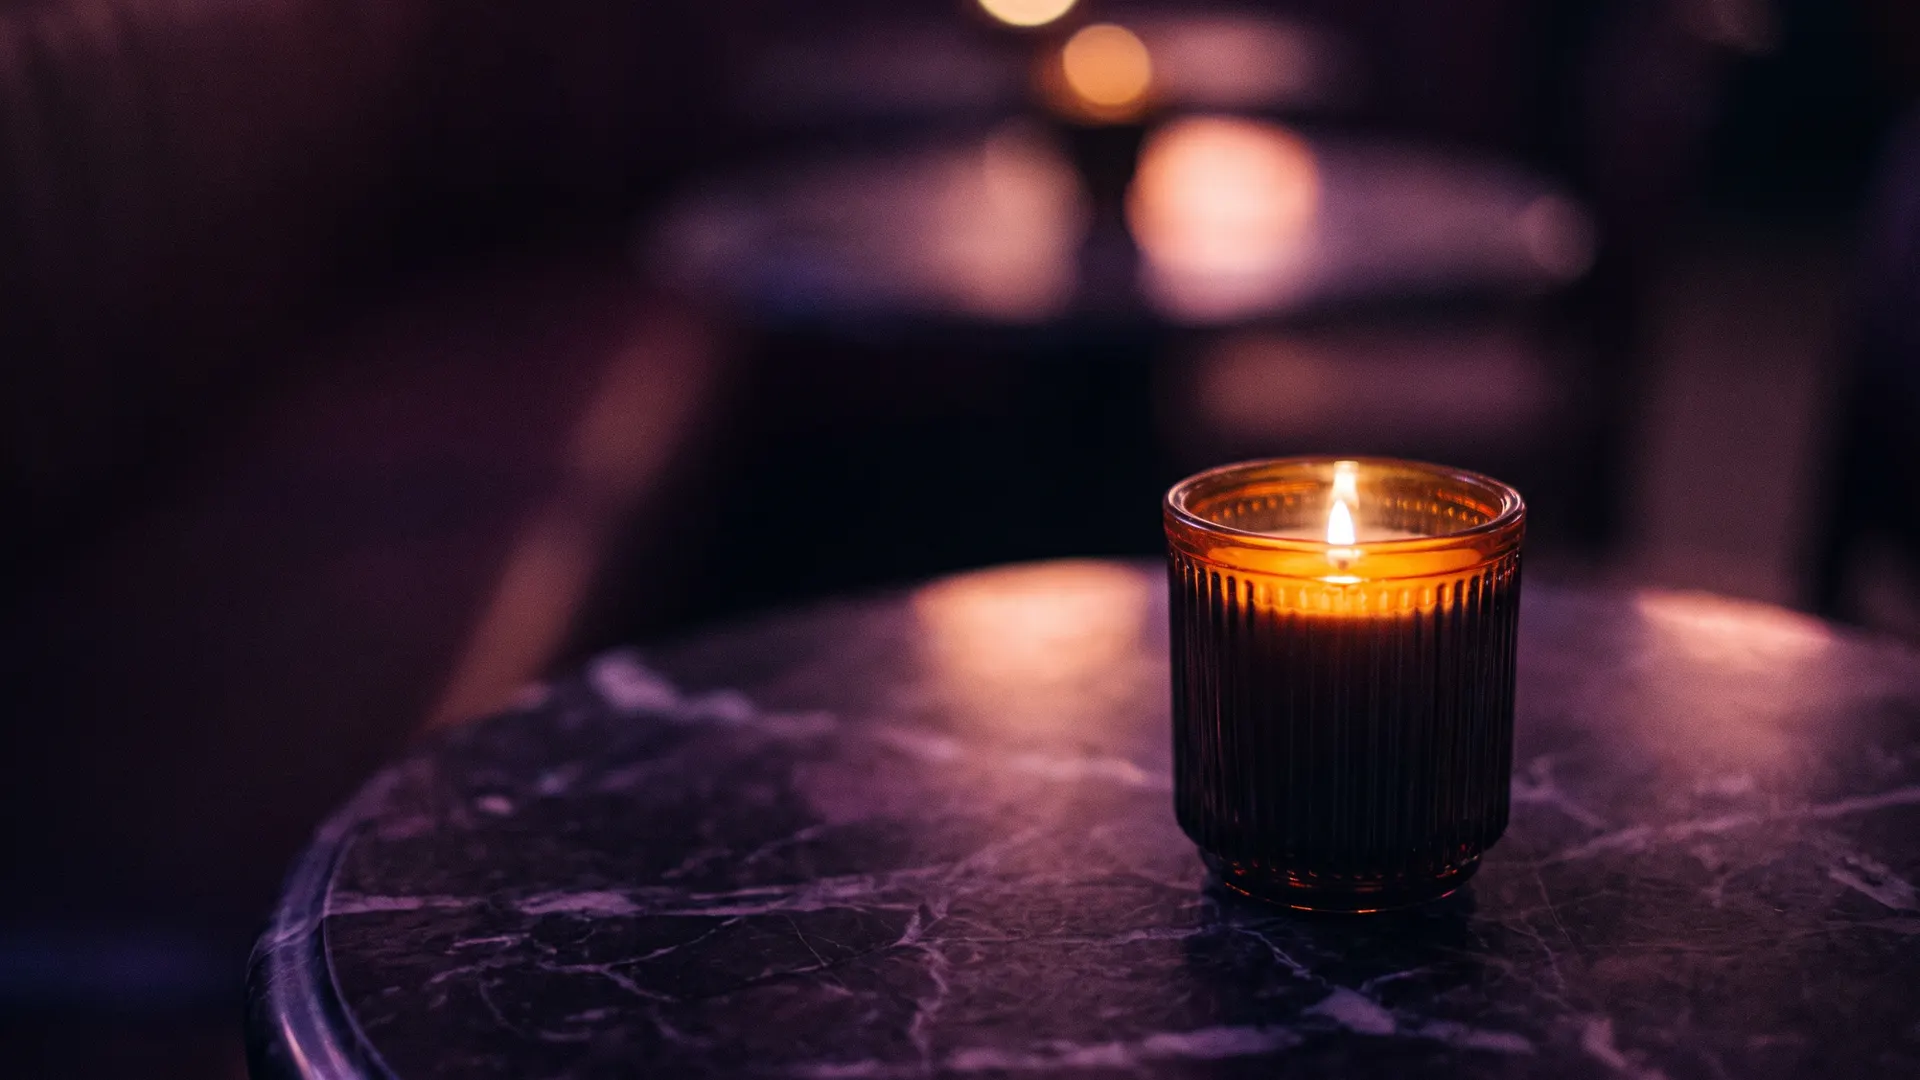
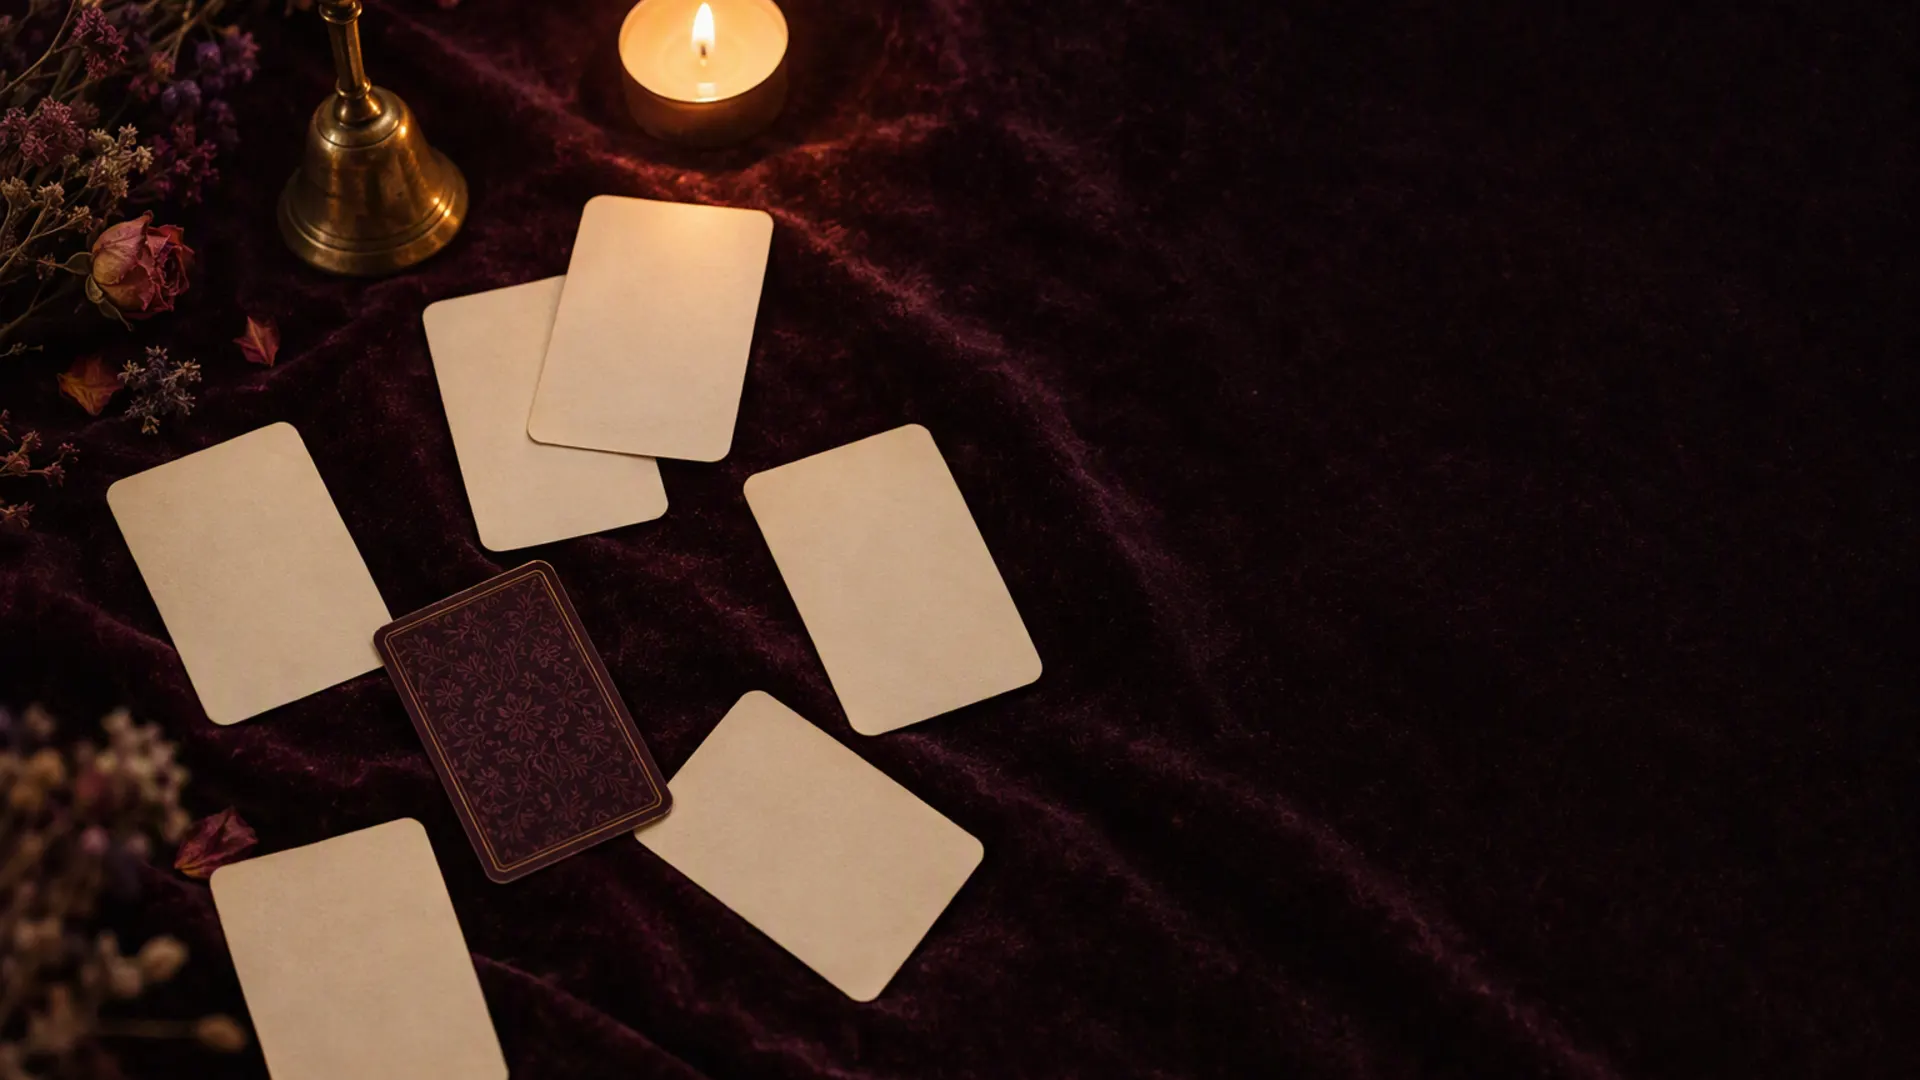
feat(landing): put the FAQ and the final call on the new night pictures
The FAQ becomes a night section over blank question cards, and the final call
moves to a table for two in a wine bar, which matches "Guarde seu lugar à
mesa"; the chess knights are gone. Safety turns into a night card inside the
light band, like the game preview, so in the light theme the dark sections do
not run into each other. Text contrast over every picture was measured again
at 1280 and 390 px.

diff --git a/src/features/landing/SafetySection.tsx b/src/features/landing/SafetySection.tsx
@@ -1,6 +1,6 @@
 import type { ReactNode } from 'react'
 import { NightBackdrop } from './NightBackdrop.tsx'
-import { CONTAINER, LEAD, SECTION_SPACING, SECTION_TITLE } from './sectionStyles.ts'
+import { CONTAINER, LEAD, SECTION_TITLE } from './sectionStyles.ts'
 
 interface SafetyAction {
   readonly name: string
@@ -33,52 +33,53 @@ const ACTIONS: readonly SafetyAction[] = [
 
 export const SAFETY_ANCHOR = 'seguranca'
 
-/** Noturna: a porta entreaberta à direita da foto, o texto à esquerda. */
+/**
+ * Cartão noturno, como o do minijogo: a porta entreaberta à direita da foto, o texto à esquerda. Fica dentro da
+ * faixa do tema para separar as seções noturnas de página inteira (hero, perguntas, chamada final).
+ */
 export function SafetySection() {
   return (
-    <section
-      id={SAFETY_ANCHOR}
-      aria-labelledby="safety-title"
-      className={`${SECTION_SPACING} candlelight relative isolate scroll-mt-16 overflow-hidden scheme-dark`}
-    >
-      <NightBackdrop
-        wideSrc="/backgrounds/safety.webp"
-        isAboveTheFold={false}
-        imageClassName="object-right"
-        scrimClassName="bg-canvas/70 md:bg-linear-to-r md:from-canvas/70 md:via-canvas/60 md:to-canvas/40"
-      />
+    <section id={SAFETY_ANCHOR} aria-labelledby="safety-title" className="scroll-mt-16 pb-24 md:pb-32">
       <div className={CONTAINER}>
-        <div className="flex max-w-xl flex-col gap-12">
-          <div className="flex flex-col gap-4">
-            <h2 id="safety-title" className={SECTION_TITLE}>
-              Você sai quando quiser
-            </h2>
-            <p className={LEAD}>
-              Segurança não fica escondida num menu. Os três botões ficam à vista durante a partida inteira.
-            </p>
+        <div className="candlelight relative isolate overflow-hidden rounded-lg scheme-dark">
+          <NightBackdrop
+            wideSrc="/backgrounds/safety.webp"
+            isAboveTheFold={false}
+            imageClassName="object-right"
+            scrimClassName="bg-canvas/70 md:bg-linear-to-r md:from-canvas/70 md:via-canvas/60 md:to-canvas/40"
+          />
+          <div className="flex max-w-xl flex-col gap-12 px-6 py-16 md:px-16 md:py-24">
+            <div className="flex flex-col gap-4">
+              <h2 id="safety-title" className={SECTION_TITLE}>
+                Você sai quando quiser
+              </h2>
+              <p className={LEAD}>
+                Segurança não fica escondida num menu. Os três botões ficam à vista durante a partida inteira.
+              </p>
+            </div>
+            <ul className="flex flex-col gap-8">
+              {ACTIONS.map((action) => (
+                <li key={action.name} className="flex gap-4">
+                  <svg
+                    viewBox="0 0 24 24"
+                    className="mt-1 size-6 shrink-0 text-fg-accent"
+                    fill="none"
+                    stroke="currentColor"
+                    strokeWidth="1.75"
+                    strokeLinecap="round"
+                    strokeLinejoin="round"
+                    aria-hidden="true"
+                  >
+                    {action.icon}
+                  </svg>
+                  <div className="flex flex-col gap-1">
+                    <h3 className="text-lg font-semibold text-fg">{action.name}</h3>
+                    <p className="leading-relaxed text-fg-muted">{action.text}</p>
+                  </div>
+                </li>
+              ))}
+            </ul>
           </div>
-          <ul className="flex flex-col gap-8">
-            {ACTIONS.map((action) => (
-              <li key={action.name} className="flex gap-4">
-                <svg
-                  viewBox="0 0 24 24"
-                  className="mt-1 size-6 shrink-0 text-fg-accent"
-                  fill="none"
-                  stroke="currentColor"
-                  strokeWidth="1.75"
-                  strokeLinecap="round"
-                  strokeLinejoin="round"
-                  aria-hidden="true"
-                >
-                  {action.icon}
-                </svg>
-                <div className="flex flex-col gap-1">
-                  <h3 className="text-lg font-semibold text-fg">{action.name}</h3>
-                  <p className="leading-relaxed text-fg-muted">{action.text}</p>
-                </div>
-              </li>
-            ))}
-          </ul>
         </div>
       </div>
     </section>

diff --git a/src/features/landing/FaqSection.tsx b/src/features/landing/FaqSection.tsx
@@ -1,3 +1,4 @@
+import { NightBackdrop } from './NightBackdrop.tsx'
 import { CONTAINER, SECTION_SPACING, SECTION_TITLE } from './sectionStyles.ts'
 
 const QUESTIONS = [
@@ -25,29 +26,26 @@ const QUESTIONS = [
   },
 ] as const
 
-const FAQ_IMAGE_SIZE = { width: 1920, height: 1080 } as const
-
 export const FAQ_ANCHOR = 'perguntas'
 
+/** Noturna: as cartas de pergunta ficam à esquerda da foto, as respostas à direita, sobre o véu mais forte. */
 export function FaqSection() {
   return (
-    <section id={FAQ_ANCHOR} aria-labelledby="faq-title" className={`${SECTION_SPACING} scroll-mt-16`}>
+    <section
+      id={FAQ_ANCHOR}
+      aria-labelledby="faq-title"
+      className={`${SECTION_SPACING} candlelight relative isolate scroll-mt-16 overflow-hidden scheme-dark`}
+    >
+      <NightBackdrop
+        wideSrc="/backgrounds/faq.webp"
+        isAboveTheFold={false}
+        imageClassName="object-left"
+        scrimClassName="bg-canvas/70 md:bg-linear-to-l md:from-canvas/70 md:via-canvas/65 md:to-canvas/40"
+      />
       <div className={`${CONTAINER} grid gap-12 md:grid-cols-3 md:gap-16`}>
-        <div className="flex flex-col gap-8">
-          <h2 id="faq-title" className={SECTION_TITLE}>
-            Perguntas
-          </h2>
-          {/* Só no desktop, onde a coluna do título sobra; decorativa, por isso alt vazio. */}
-          <img
-            src="/backgrounds/faq.webp"
-            alt=""
-            width={FAQ_IMAGE_SIZE.width}
-            height={FAQ_IMAGE_SIZE.height}
-            loading="lazy"
-            decoding="async"
-            className="hidden aspect-4/5 w-full rounded-lg bg-surface object-cover object-right md:block"
-          />
-        </div>
+        <h2 id="faq-title" className={SECTION_TITLE}>
+          Perguntas
+        </h2>
         <div className="border-t border-divider md:col-span-2">
           {QUESTIONS.map(({ question, answer }) => (
             <details key={question} className="group border-b border-divider">

diff --git a/src/features/landing/FinalCallSection.tsx b/src/features/landing/FinalCallSection.tsx
@@ -2,15 +2,17 @@ import { WAITLIST_ANCHOR } from './HeroSection.tsx'
 import { NightBackdrop } from './NightBackdrop.tsx'
 import { CONTAINER, PRIMARY_LINK } from './sectionStyles.ts'
 
-/** Os dois cavalos de frente: duas pessoas que se encontram. Sempre noturna, como o hero. */
+/** A mesa para dois do wine bar, com o canto escuro à esquerda para o texto. Sempre noturna, como o hero. */
 export function FinalCallSection() {
   return (
-    <section aria-labelledby="final-title" className="candlelight relative isolate overflow-hidden scheme-dark">
+    <section
+      aria-labelledby="final-title"
+      className="candlelight relative isolate overflow-hidden border-t border-divider scheme-dark"
+    >
       <NightBackdrop
-        wideSrc="/backgrounds/table.webp"
-        narrowSrc="/backgrounds/table-mobile.webp"
+        wideSrc="/backgrounds/candle.webp"
         isAboveTheFold={false}
-        imageClassName="object-bottom md:object-center"
+        imageClassName="object-right"
         scrimClassName="bg-linear-to-b from-canvas/70 via-canvas/50 to-canvas/40 md:bg-linear-to-r md:from-canvas/70 md:to-canvas/40"
       />
       <div className={`${CONTAINER} flex flex-col items-start gap-6 pt-24 pb-96 md:py-32`}>
